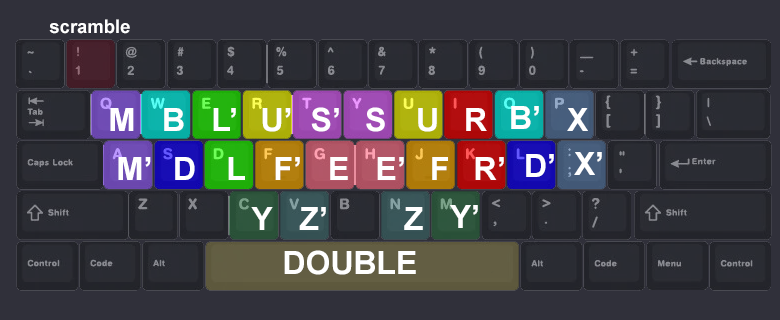
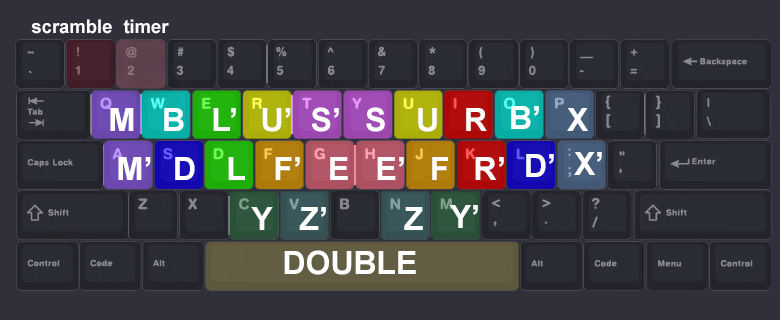
readme update

Changed region(s): [[0.0308, 0.0625, 0.2154, 0.2812]]

diff --git a/README.md b/README.md
@@ -17,17 +17,21 @@
 
 - `Smooth performance` – Fluid experience with **60 FPS**.
 
+- `Timer functionality` – measure your solve times directly in the app.
+
 ## Controls 🎮
 
 Key mappings are designed to resemble real cube rotations as much as possible. Experiment a bit — after a few tries it becomes second nature.
 
 ![controls](https://raw.githubusercontent.com/hejsztynx/kostka/main/readme/controls.png)
 
+Timer can be switched on and off with the `2` key. You can only start the timer after resetting the game and scrambling the cube with the `1` key.
+
 ## In Progress 🚧
 
 Currently working on:
 
-- Timer functionality ⏱ – measure your solve times directly in the app.
+- Custom performance and cube speed settings.
 
 ## Installing 🔧
 
